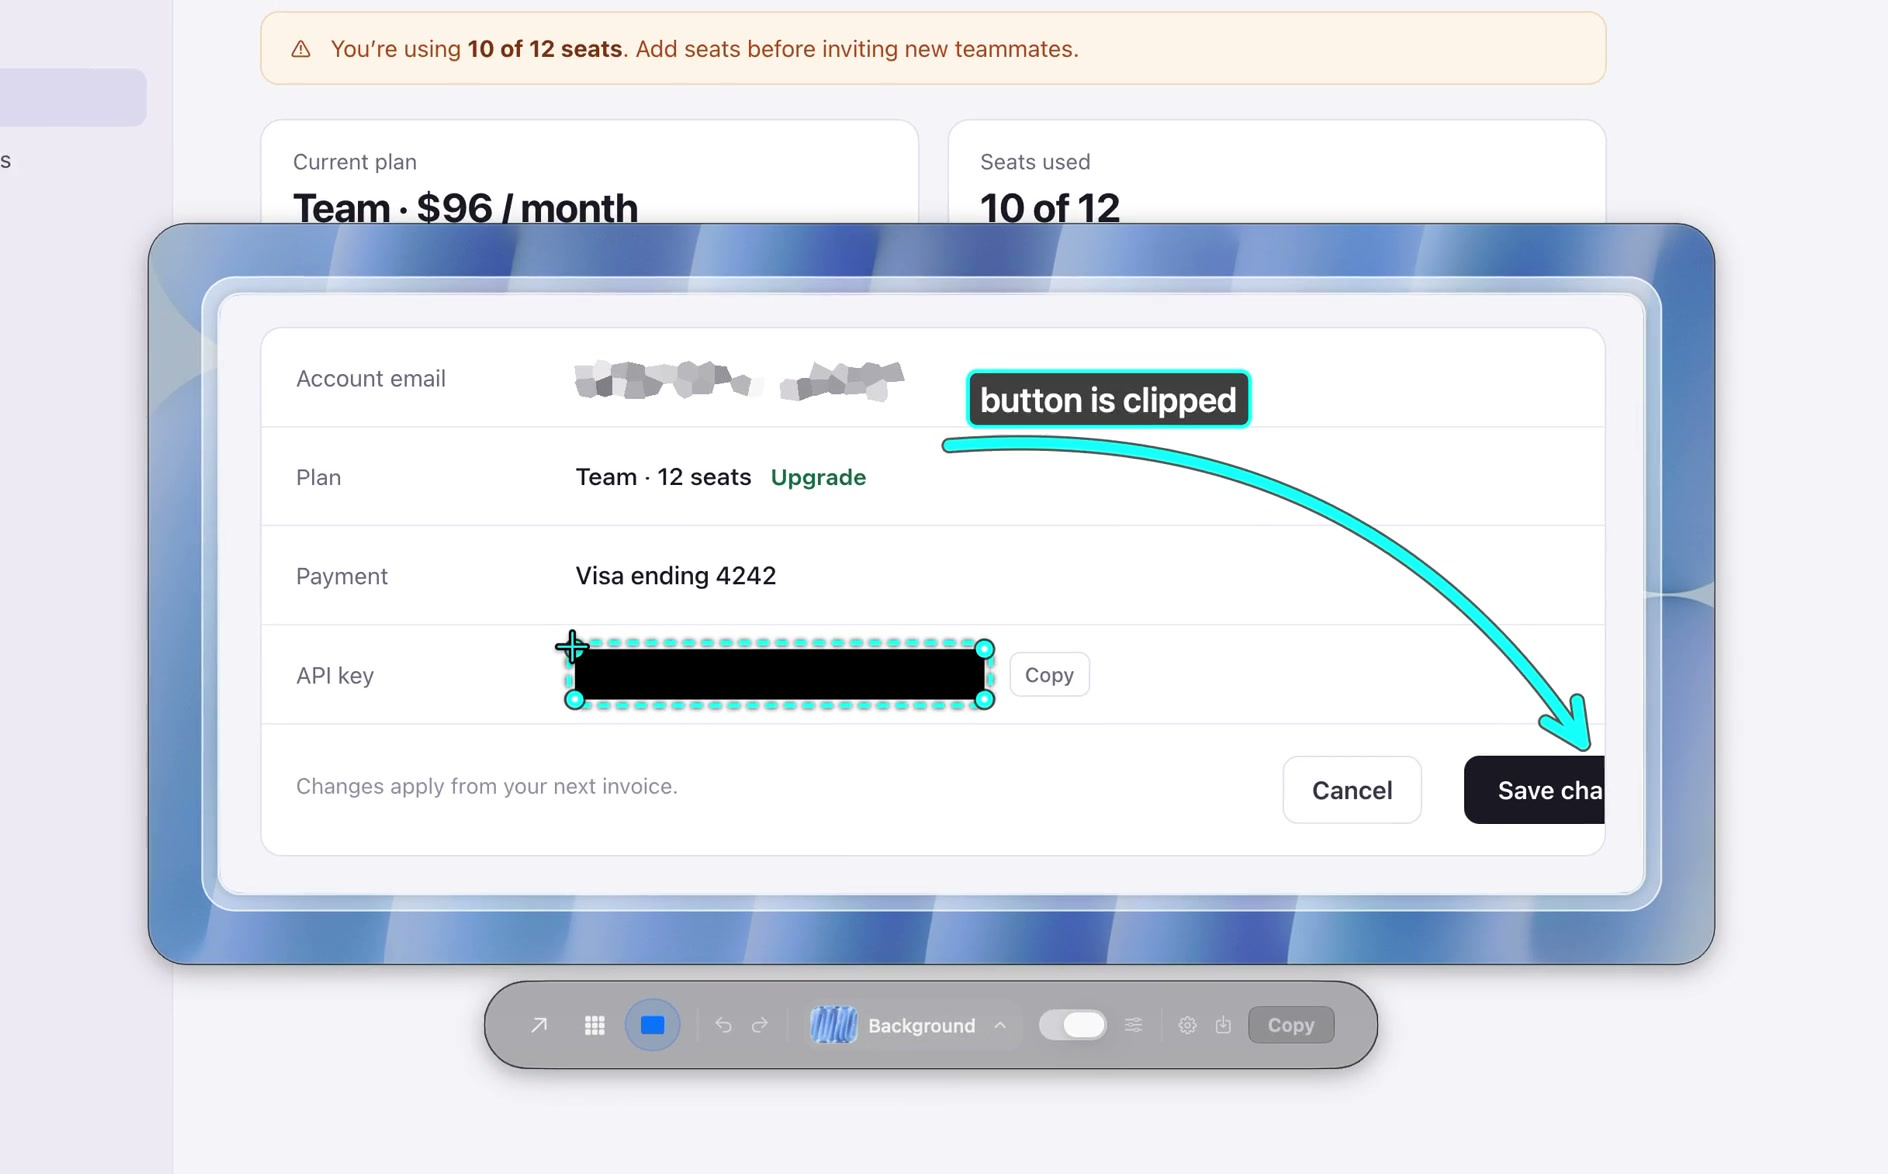
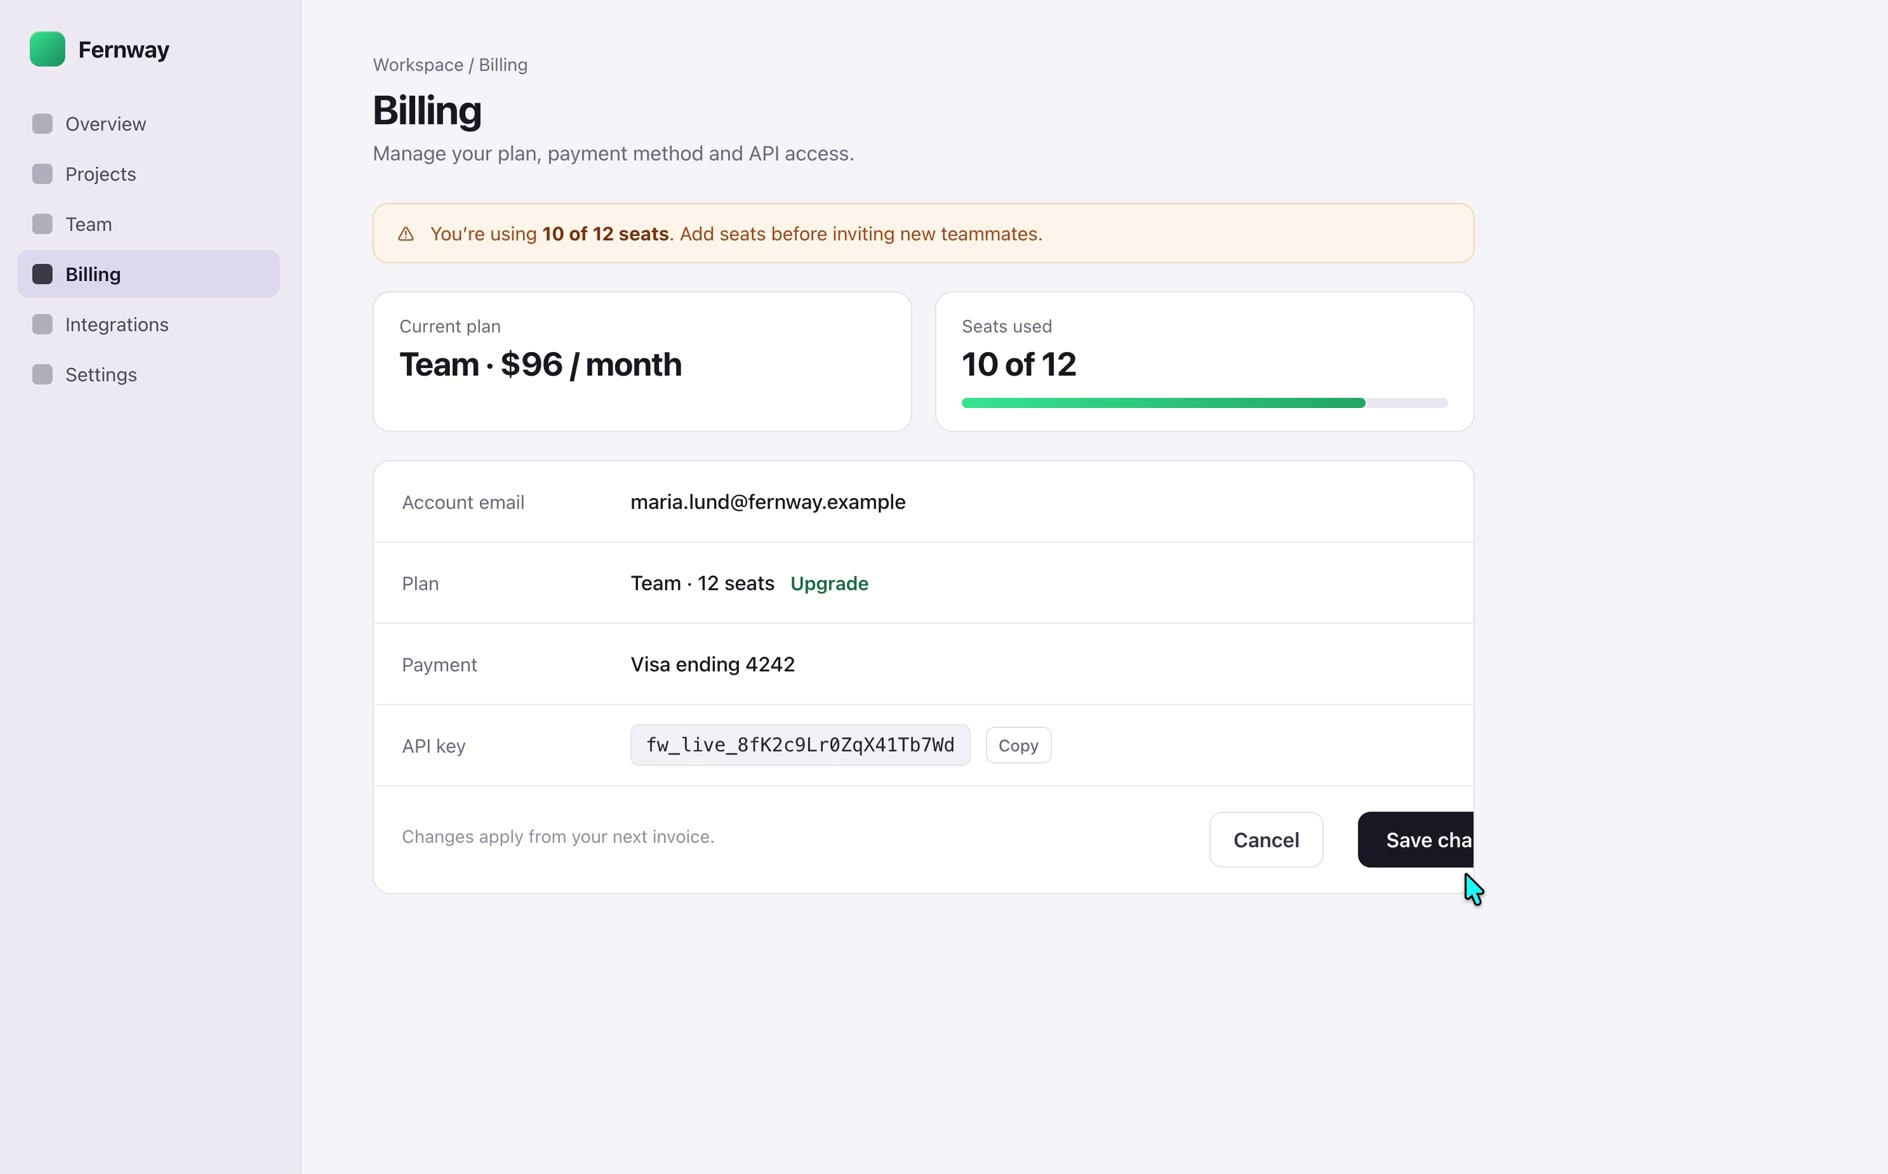
Use the demo first frame as its poster

diff --git a/docs/index.html b/docs/index.html
@@ -576,7 +576,7 @@
       <section class="demo-wrap" aria-label="Point screenshot annotation preview">
         <div class="demo video-demo">
           <div class="demo-stage">
-            <video id="point-demo" controls loop playsinline preload="metadata" width="1888" height="1174" poster="point-demo-poster.jpg?v=030-crop-v8" aria-label="Point demo: capture with a Sunset wash, frame and annotate a screenshot, blur an email, redact a key, preview the result, and share it in chat.">
+            <video id="point-demo" controls loop playsinline preload="metadata" width="1888" height="1174" poster="point-demo-poster.jpg?v=030-start-frame-v9" aria-label="Point demo: capture with a Sunset wash, frame and annotate a screenshot, blur an email, redact a key, preview the result, and share it in chat.">
               <source src="point-demo.mp4?v=030-crop-v8" type="video/mp4">
               <a href="point-demo.mp4?v=030-crop-v8">Watch the Point demo video</a>
             </video>
